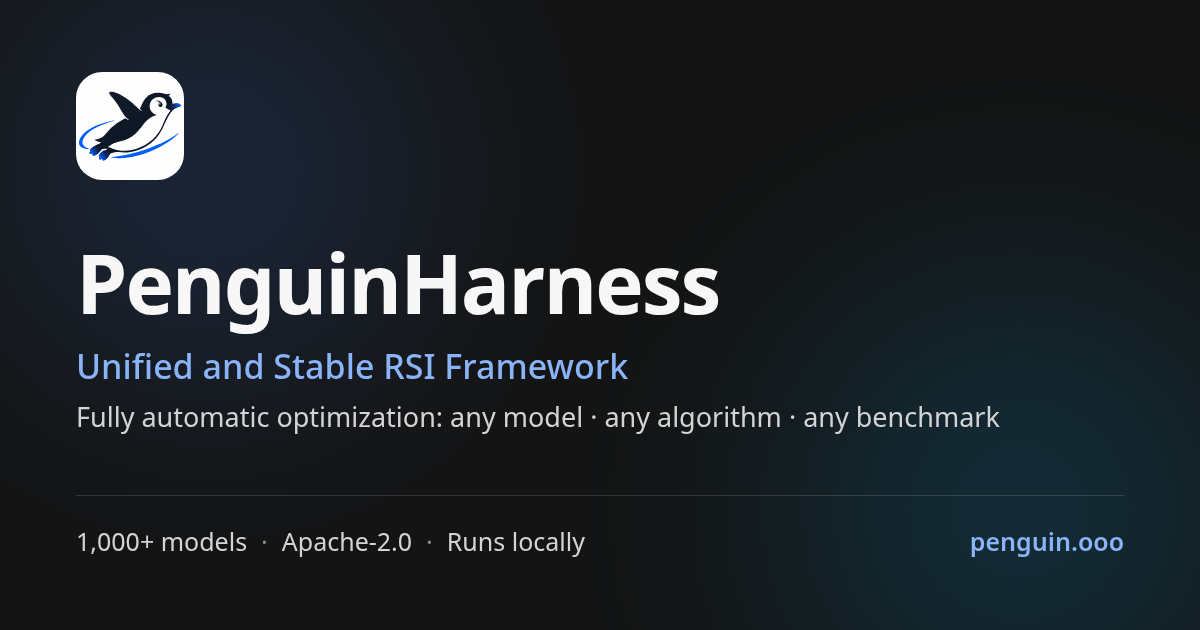
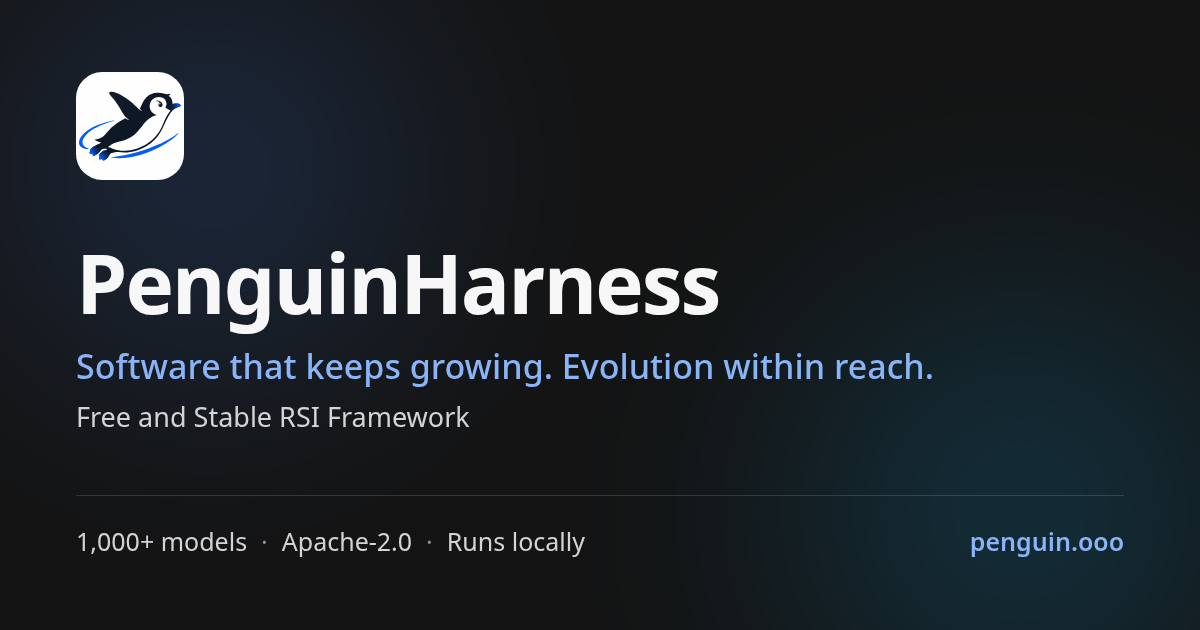
feat(landing): home page slogan, subtitle, MMSP model link, A2APP and observable self-evolution, in place (#1327)
The owner's new home-page copy, put into the existing framework.
Supersedes #1321, which restyled the hero, removed sections and added
imitation demos. Nothing here restyles, resizes, renumbers or
re-animates anything. The only removals are the two hero lines the owner
named in review (the 「免费开源」 badge and the 「全自动优化…」 tagline). No class,
type size, margin, animation, section, number, video or poster changes.

Design: Prism-Shadow/penguin-harness-design#382 (specs/05 § Landing
Page, bullet 2).

## What changed

- **Hero.** The slogan takes the positioning line's slot and style. The
owner's review removes the 「免费开源」/"for free" badge, its wrapper span and
its key. The existing grey `p.hero-automation` (element and classes
unchanged) now holds only the subtitle; the 「全自动优化：任意模型 · 任意算法 · 任意
Benchmark」 tagline and its key are removed.
- **MMSP link (owner review).** The 「1000+ 支持模型」 count and label are
exactly as on main, with no link. The row's closing 「以及更多」/"and more"
entry links to `mmspModelsUrl(locale)` (new in `lib/links.ts`) through
the existing leave-the-site confirmation. It is styled as the
catalogue's other linked entries: `ENTRY_LINK` and the same
external-link glyph as OPRO/APE. Its `li` keeps the `ml-1` spacing it
had.
- **Observable self-evolution.** Showcase row 2's title and sentence
change, and row 3's title changes. Frames, links, row 1 and row 3's
sentence stay as they are.
- **A2APP.** The Cases title gets the `A2APP：`/`A2APP: ` prefix in front
[…]

Changed region(s): [[0.0617, 0.6333, 0.8325, 0.6937], [0.0617, 0.5429, 0.7708, 0.6032]]

diff --git a/packages/landing/src/sections/hero.tsx b/packages/landing/src/sections/hero.tsx
@@ -1,14 +1,16 @@
 /**
- * Product-first hero: the positioning line with its badge, two direct installation paths, three
- * stat tiles (the small label over the big value), three catalogue rows (supported models,
+ * Product-first hero: the slogan, the subtitle in grey, two direct installation paths, three stat
+ * tiles (the small label over the big value), three catalogue rows (supported models,
  * self-evolution algorithms, Benchmarks) each led by its count, whose outside links confirm
- * before they open, and then the app itself, live: the start page in a frame. What the rows list,
- * and where each entry links, is lib/rsi-stats.ts; the algorithm and Benchmark counts are those
- * lists' lengths.
+ * before they open (the models row's closing "and more" links to MMSP's model index), and then
+ * the app itself, live: the start page in a frame. What the rows list, and where each entry
+ * links, is lib/rsi-stats.ts; the algorithm and Benchmark counts are those lists' lengths.
  */
 import type { ReactNode } from "react";
 import { Link } from "react-router";
+import { useSiteLocale } from "@prismshadow/penguin-ui/site";
 import { S } from "../lib/strings";
+import { mmspModelsUrl } from "../lib/links";
 import { RELEASE_VERSION } from "../lib/version";
 import { BENCHMARKS, MODEL_PROVIDERS, RSI_TOOLKITS } from "../lib/rsi-stats";
 import {
@@ -73,6 +75,7 @@ function CatalogRow({
 }
 
 export function Hero() {
+  const { locale } = useSiteLocale();
   return (
     <section className="relative overflow-hidden">
       <div className="hero-dots pointer-events-none absolute inset-0" aria-hidden="true" />
@@ -92,22 +95,14 @@ export function Hero() {
           className="hero-positioning anim-rise mx-auto mt-6 leading-tight font-semibold tracking-[-0.035em] text-balance break-keep [overflow-wrap:break-word]"
           style={{ animationDelay: "70ms" }}
         >
-          {/* The badge is a superscript on the line's top-right corner, set as type rather than a
-              chip: brand colour, no box. On a phone it sits above the corner instead, inside the
-              column, where the line already reaches the edge. */}
-          <span className="relative inline-block">
-            {S.hero.positioning}
-            <span className="absolute right-0 bottom-full mb-1 text-sm leading-none font-semibold tracking-normal whitespace-nowrap text-brand-600 sm:right-auto sm:bottom-auto sm:top-[0.1em] sm:left-full sm:mb-0 sm:ml-[0.3em] sm:text-[0.42em] dark:text-brand-300">
-              {S.hero.badge}
-            </span>
-          </span>
+          {S.hero.positioning}
         </p>
 
         <p
           className="hero-automation anim-rise mt-5 leading-6 text-balance break-keep text-gray-600 [overflow-wrap:break-word] sm:leading-8 dark:text-gray-300"
           style={{ animationDelay: "120ms" }}
         >
-          {S.hero.automation}
+          {S.hero.subtitle}
         </p>
 
         <div
@@ -169,8 +164,11 @@ export function Hero() {
                   </ExternalLink>
                 </li>
               ))}
-              <li className="ml-1 text-sm font-medium whitespace-nowrap text-gray-500 dark:text-gray-400">
-                {S.hero.supportedModelsMore}
+              <li className="ml-1">
+                <ExternalLink href={mmspModelsUrl(locale)} className={ENTRY_LINK}>
+                  {S.hero.supportedModelsMore}
+                  <ExternalLinkIcon className="h-3 w-3 text-gray-400 dark:text-gray-500" />
+                </ExternalLink>
               </li>
             </CatalogRow>
 

diff --git a/packages/landing/src/lib/strings.ts b/packages/landing/src/lib/strings.ts
@@ -44,11 +44,10 @@ export const zh = {
   },
 
   hero: {
-    positioning: "统一、稳定的 Agent 自进化框架",
-    /** The badge on the positioning line's top-right corner. */
-    badge: "免费开源",
-    /** A no-break space before each dot keeps it at the end of its line when a phone wraps. */
-    automation: "全自动优化：任意模型\u00a0· 任意算法\u00a0· 任意 Benchmark",
+    /** The slogan, in the positioning line's place and style. */
+    positioning: "让软件持续成长，让进化触手可及",
+    /** The grey line under the slogan. */
+    subtitle: "免费、稳定的 Agent 自进化框架",
     downloadCta: "下载桌面版",
     cliInstall: "命令行安装",
     stats: [
@@ -171,13 +170,13 @@ export const zh = {
       frame: "一轮自进化的对话（实时演示）",
     },
     evaluate: {
-      title: "每个版本都有分数",
-      text: "同一套 Benchmark 上的每次评测，按智能体和模型连成一条线，哪一版更好一眼可见。",
+      title: "可观测的自进化",
+      text: "六类能力的 Benchmark 为每个版本打分，附成本和耗时，按智能体和模型连成一条线，哪一版更好一眼可见。",
       link: "了解评估中心",
       frame: "评估中心里的一套 Benchmark（实时演示）",
     },
     toolkits: {
-      title: "自进化算法通过插件接入",
+      title: "前沿的自进化算法，提高准确率，降低成本",
       /** `names`: the paper toolkits, already listed (OPRO、APE、…). */
       text: (names: string) => `除了默认循环，${names} 各自是一个工具包，按原论文的流程运行。`,
       link: "浏览插件库",
@@ -205,7 +204,7 @@ export const zh = {
       { label: "成本", hint: "每次运行" },
       { label: "耗时", hint: "每次运行" },
     ],
-    trendsNote: "记分板会记录每个版本的分数、成本和耗时。这里的数值仅为示意。",
+    trendsNote: "记分板会记录每个版本的分数、成本和耗时。",
     demo: {
       caption: "演示：决策智能体经过评测、一次工作方法改进和同模型复测，分数从 84 提升到 100。",
       cost: "被测 Agent 的 6 次运行花费 $0.0373，不含出题、评分和优化的成本。",
@@ -264,7 +263,10 @@ penguin run --message "分析 data.csv，输出季度销售额"`,
   },
 
   cases: {
-    title: "一句话 + 0.6 元构建法务应用",
+    title: "A2APP：一句话 + 0.6 元构建法务应用",
+    /** The subtitle's first line, saying what A2APP is; `subtitle` is its second. */
+    a2app:
+      "A2APP 是智能体自己的小应用，就是聊天旁边的一个标签页，会调用智能体完成工作。在聊天里说一句话就能修改它，改完立即重新加载，旧版本也会保留。",
     subtitle:
       "用一句话描述需求，PenguinHarness 就能构建法务智能体应用：上传合同、识别风险并生成审阅报告。",
     prompt:
@@ -390,7 +392,7 @@ penguin run --message "分析 data.csv，输出季度销售额"`,
   },
 
   footer: {
-    tagline: "统一、稳定的 Agent 自进化框架",
+    tagline: "免费、稳定的 Agent 自进化框架",
     product: "产品",
     resources: "资源",
     quickstart: "快速开始",

diff --git a/packages/landing/src/lib/strings-en.ts b/packages/landing/src/lib/strings-en.ts
@@ -45,14 +45,8 @@ export const en: Strings = {
   },
 
   hero: {
-    positioning: "Unified and Stable RSI Framework",
-    badge: "for free",
-    /**
-     * No-break spaces keep each "any …" pair on one line, and each dot at the end of its line,
-     * when a phone wraps the tagline.
-     */
-    automation:
-      "Fully automatic optimization: any\u00a0model\u00a0· any\u00a0algorithm\u00a0· any\u00a0benchmark",
+    positioning: "Software that keeps growing. Evolution within reach.",
+    subtitle: "Free and Stable RSI Framework",
     downloadCta: "Download desktop",
     cliInstall: "Command-line install",
     stats: [
@@ -179,13 +173,13 @@ export const en: Strings = {
       frame: "A self-evolution round in a conversation (live demo)",
     },
     evaluate: {
-      title: "Every version gets a score",
-      text: "Each evaluation on a Benchmark adds a point to its agent and model's line, so the better version is plain to see.",
+      title: "Observable self-evolution",
+      text: "Benchmarks covering six kinds of capability score every version of an agent, with cost and duration recorded beside the score; each agent and model gets its own line, making the better version plain to see.",
       link: "About the Evaluation Center",
       frame: "A Benchmark in the Evaluation Center (live demo)",
     },
     toolkits: {
-      title: "Self-evolution algorithms are added as plugins",
+      title: "State-of-the-art self-evolution algorithms for higher accuracy, lower cost",
       text: (names: string) =>
         `Besides the default loop, ${names} each come as a toolkit that runs the algorithm the way its paper describes.`,
       link: "Browse the plugin library",
@@ -211,8 +205,7 @@ export const en: Strings = {
       { label: "Cost", hint: "per run" },
       { label: "Duration", hint: "per run" },
     ],
-    trendsNote:
-      "The scoreboard records each version's score, cost and duration. The values here are illustrative.",
+    trendsNote: "The scoreboard records each version's score, cost and duration.",
     demo: {
       caption:
         "Demo: a decision agent is evaluated, revises its working method once and is retested on the same model. Its score goes from 84 to 100.",
@@ -279,7 +272,9 @@ penguin run --message "Analyze data.csv and summarize quarterly sales"`,
   },
 
   cases: {
-    title: "One sentence and $0.10 build a legal agent app",
+    title: "A2APP: one sentence and $0.10 build a legal agent app",
+    a2app:
+      "A2APP is the agent's own small app, a tab beside the chat; the app calls the agent to do the work. One sentence in chat, and the agent changes it; it reloads at once and keeps earlier versions.",
     subtitle:
       "Describe what you need in one request. PenguinHarness builds a legal agent app that takes contract uploads, identifies risks and produces review reports to download.",
     prompt:
@@ -403,7 +398,7 @@ penguin run --message "Analyze data.csv and summarize quarterly sales"`,
   },
 
   footer: {
-    tagline: "Unified and Stable RSI Framework.",
+    tagline: "Free and Stable RSI Framework.",
     product: "Product",
     resources: "Resources",
     quickstart: "Quick start",

diff --git a/packages/landing/index.html b/packages/landing/index.html
@@ -7,7 +7,7 @@
     <meta name="theme-color" content="#141414" media="(prefers-color-scheme: dark)" />
     <meta
       name="description"
-      content="PenguinHarness is the open-source Unified and Stable RSI Framework. Fully automatic optimization: any model, any algorithm, any benchmark. One sentence builds an AI app that thinks and runs; one sentence starts an agent's self-evolution."
+      content="PenguinHarness is the open-source Free and Stable RSI Framework. One sentence builds an AI app that thinks and runs; one sentence starts an agent's self-evolution."
     />
     <!-- Self-referencing URLs for the home page: scripts/postbuild.mjs rewrites both per
          route as it stamps out the blog shells, and drops the canonical from 404.html.
@@ -20,16 +20,19 @@
     <meta property="og:title" content="PenguinHarness" />
     <meta
       property="og:description"
-      content="Unified and Stable RSI Framework. Fully automatic optimization: any model, any algorithm, any benchmark. One sentence builds an AI app, one sentence starts self-evolution."
+      content="Free and Stable RSI Framework. One sentence builds an AI app, one sentence starts self-evolution."
     />
     <meta property="og:image" content="https://penguin.ooo/og-cover.png" />
     <meta property="og:image:width" content="1200" />
     <meta property="og:image:height" content="630" />
-    <meta property="og:image:alt" content="PenguinHarness — Unified and Stable RSI Framework" />
+    <meta
+      property="og:image:alt"
+      content="PenguinHarness — Software that keeps growing. Evolution within reach."
+    />
     <meta name="twitter:card" content="summary_large_image" />
     <meta name="twitter:image" content="https://penguin.ooo/og-cover.png" />
     <link rel="icon" type="image/svg+xml" href="/penguin-logo.svg" />
-    <title>PenguinHarness — Unified and Stable RSI Framework</title>
+    <title>PenguinHarness — Free and Stable RSI Framework</title>
     <!-- Apply the stored/system theme before first paint so the page doesn't flash the
          wrong background while React boots. Reads the key shared with the sibling site
          (see site-prefs.ts in @prismshadow/penguin-ui/site), falling back to the retired per-site keys. -->

diff --git a/packages/landing/src/sections/cases.tsx b/packages/landing/src/sections/cases.tsx
@@ -1,6 +1,7 @@
 /**
- * The one-request case: the request as it was typed, then the recording of the legal app it
- * built, with what five sample reviews cost in model calls under the caption.
+ * The one-request case, A2APP: a subtitle line saying what A2APP is above the case's own, the
+ * request as it was typed, then the recording of the legal app it built, with what five sample
+ * reviews cost in model calls under the caption.
  */
 import { S } from "../lib/strings";
 import { useSiteLocale } from "@prismshadow/penguin-ui/site";
@@ -23,7 +24,7 @@ export function Cases() {
   const c = S.cases;
 
   return (
-    <Section id="cases" title={c.title} subtitle={c.subtitle}>
+    <Section id="cases" title={c.title} subtitle={[c.a2app, c.subtitle]}>
       <figure className="mx-auto max-w-5xl">
         <div className="mx-auto mb-5 w-full max-w-4xl rounded-xl border border-gray-200 bg-gray-50 px-4 py-2.5 text-left dark:border-gray-800 dark:bg-gray-900">
           <code className="font-mono text-[12px] leading-5 whitespace-pre-wrap text-gray-800 sm:text-[13px] dark:text-gray-200">

diff --git a/packages/landing/src/lib/links.ts b/packages/landing/src/lib/links.ts
@@ -40,6 +40,14 @@ export const AMSP_SOURCE_URL = `${REPO_URL}/tree/main/packages/amsp`;
 export const MMSP_URL = "https://mmsp.penguin.ooo/";
 
 /**
+ * MMSP's model index in the site's language. MMSP serves Chinese under `/zh/` and English at its
+ * root, with no `/en/` prefix (`/en/models/` is a 404).
+ */
+export function mmspModelsUrl(locale: "zh" | "en"): string {
+  return locale === "zh" ? `${MMSP_URL}zh/models/` : `${MMSP_URL}models/`;
+}
+
+/**
  * One-line installer (Linux / macOS, x64 / arm64, bundled Node runtime).
  * penguin.ooo/install.sh is this site's own public/install.sh — a thin forwarder
  * to the latest GitHub release installer (Pages cannot serve real redirects).

diff --git a/packages/landing/src/sections/self-improve.tsx b/packages/landing/src/sections/self-improve.tsx
@@ -6,7 +6,7 @@
  * versions. Beside it, the three numbers the scoreboard records for every version, each line
  * growing from the left on a slow loop.
  *
- * The chart values are illustrative and the section says so. Their shapes follow the rules, not a
+ * The chart values are illustrative. Their shapes follow the rules, not a
  * wish: the score only rises because a version is kept only when it scores higher, while cost and
  * duration are recorded but never optimised, so they wander. Phones get the same loop as a stacked
  * reading. Reduced motion: the flow dots stay off and every line is drawn finished. Under the

diff --git a/packages/landing/scripts/og-cover.html b/packages/landing/scripts/og-cover.html
@@ -119,10 +119,8 @@
         <img class="logo" src="../public/penguin-logo.svg" alt="" />
         <div>
           <h1>PenguinHarness</h1>
-          <p class="tagline">Unified and Stable RSI Framework</p>
-          <p class="subline">
-            Fully automatic optimization: any model · any algorithm · any benchmark
-          </p>
+          <p class="tagline">Software that keeps growing. Evolution within reach.</p>
+          <p class="subline">Free and Stable RSI Framework</p>
         </div>
         <div class="foot">
           <div class="facts">

diff --git a/changelog/unreleased/2026-10-25-landing-home-copy.md b/changelog/unreleased/2026-10-25-landing-home-copy.md
@@ -1,0 +1,27 @@
+# The home page's slogan, subtitle, MMSP model link, A2APP and observable self-evolution
+
+- **Date:** 2026-10-25
+- **Type:** feature
+- **Scope:** `landing`
+- **PR:** [#1327](https://github.com/Prism-Shadow/penguin-harness/pull/1327)
+
+[中文版](2026-10-25-landing-home-copy.zh.md)
+
+The home page hero opens with the slogan "Software that keeps growing. Evolution within reach."
+(「让软件持续成长，让进化触手可及」), and the grey line under it is now the subtitle "Free and Stable RSI
+Framework" (「免费、稳定的 Agent 自进化框架」); the "for free" badge and the "Fully automatic
+optimization" tagline are gone. The supported-models row's closing "and more" links to MMSP's model
+index in the site's language, behind the same leave-the-site confirmation as the provider logos. The
+second showcase row is titled "Observable self-evolution", the third names the state-of-the-art
+self-evolution algorithms with "higher accuracy, lower cost", and the one-sentence legal app case is
+titled and introduced as A2APP. Everything else on the page keeps its layout, styles, numbers and
+media.
+
+## Details
+
+- The footer tagline, the page `<title>`, the meta and Open Graph descriptions and the share card
+  (`og-cover.png`) say "Free and Stable RSI Framework" and no longer carry the automation line; the
+  share card carries the slogan.
+- The self-evolution section's note under the trend charts keeps its first sentence only.
+- The dev skill's no-slop rules gain one: a copy request changes words in place, and a feature demo
+  is the real software.

diff --git a/changelog/unreleased/2026-10-25-landing-home-copy.zh.md b/changelog/unreleased/2026-10-25-landing-home-copy.zh.md
@@ -1,0 +1,16 @@
+# 首页口号、副标题、MMSP 模型链接、A2APP 与可观测的自进化
+
+- **Date:** 2026-10-25
+- **Type:** feature
+- **Scope:** `landing`
+- **PR:** [#1327](https://github.com/Prism-Shadow/penguin-harness/pull/1327)
+
+[English](2026-10-25-landing-home-copy.md)
+
+首页首屏以口号「让软件持续成长，让进化触手可及」开头，其下的灰色一行改为副标题「免费、稳定的 Agent 自进化框架」；「免费开源」标记与「全自动优化」标语已删去。支持模型一行末尾的「以及更多」链接到 MMSP 按站点语言的模型索引，打开前和模型厂商图标一样先确认离站。第二个展示块的标题改为「可观测的自进化」，第三个点出前沿的自进化算法与「提高准确率，降低成本」，一句话构建法务应用的案例以 A2APP 为题并加一行介绍。页面其余部分的版式、样式、数字和媒体保持不变。
+
+## 细节
+
+- 页脚标语、页面 `<title>`、meta 与 Open Graph 描述、分享卡片（`og-cover.png`）都改为「Free and Stable RSI Framework」，不再带全自动优化一行；分享卡片以口号为主标语。
+- 自进化区块趋势图下的注释只保留第一句。
+- 开发 Skill 的去 AI 味规则新增一条：文案需求只在原位替换文字，功能演示必须是真实软件。

diff --git a/.agents/skills/penguin-harness-dev/SKILL.md b/.agents/skills/penguin-harness-dev/SKILL.md
@@ -36,6 +36,11 @@ is a labelled pill or an icon plus a tooltip, never a bare coloured dot; section
 boxed. Run `node .agents/skills/penguin-harness-dev/reference/ai-slop/scan.mjs <what you touched>`
 and triage every hit. `reference/ai-slop.md` has the repo's own decisions and the full catalogue.
 
+**A copy request changes words, in place.** When the owner asks for new copy, swap the words
+inside the existing layout: removing or restyling a section, element, type size, number or
+animation needs the owner's explicit say, and a feature demo is the real software (a capture of
+the running Web App or a live gallery frame), never an imitation UI or a scripted replay.
+
 ## Repo shape — read before your first edit
 
 Two repositories sit side by side: the implementation repo (`penguin-harness`) and the design repo
